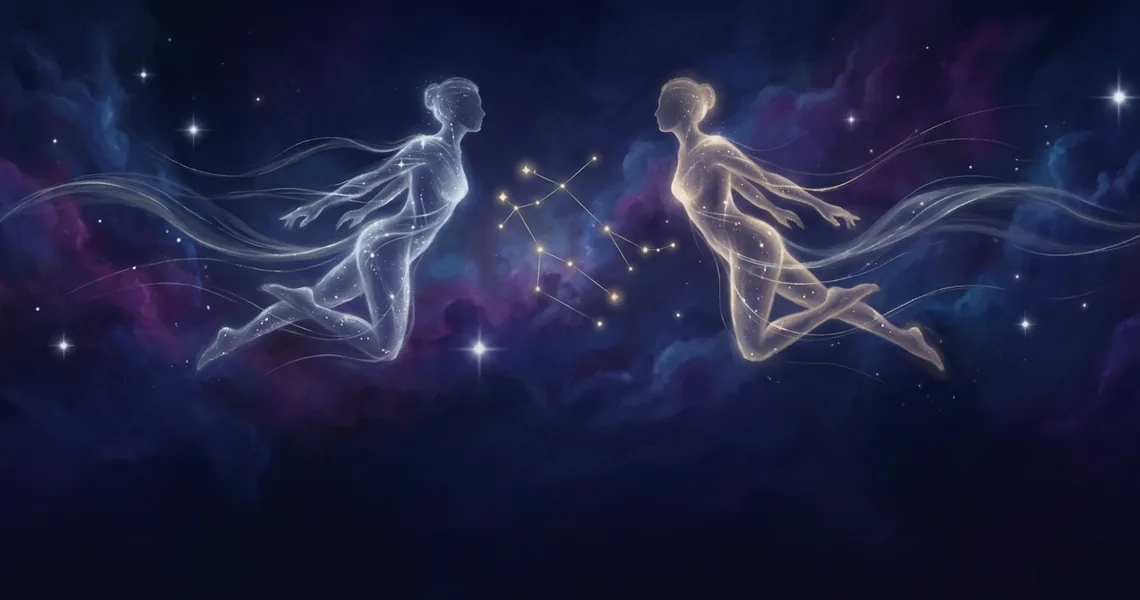
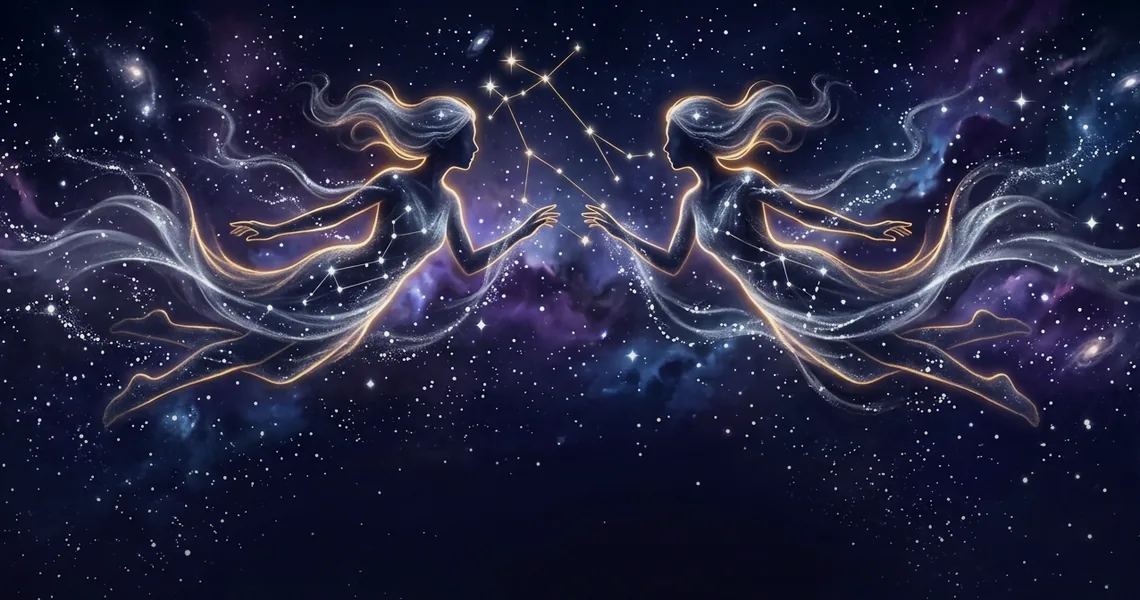
polish(astral-cosmos): objective art QA pass + central typography system (v1.13.2)
Art quality audit against the unified Scorpio-bar template, measured
objectively (gold rim-light pixel ratio, nebula violet, star count,
upper-half subject energy, text-zone darkness, edge energy):
- gemini, virgo, aquarius, pisces had almost no golden rim light
  (0.0-0.2% vs the bar's 0.9%) -> regenerated with rim-light
  strengthened prompts; now 0.3-1.6% (in family).
- sagittarius text zone was too bright (32 vs ~12-14) -> deeper
  baked bottom scrim, now 18.
All 12 artworks now measurably speak the same visual language.

Typography system (brief phase 2.4): AstralTextStyles in app_theme -
10 canonical text roles (scene/titleLarge/title/titleSmall/body/
bodySmall/caption/label/badge/overlineEn) with the single Vazirmatn
family. Shared widgets wired: SectionHeader, LockedSection,
PremiumBadge, PremiumSectionTitle, My-Sign banner (fa/en names).

v1.13.2+28.

diff --git a/lib/core/theme/app_theme.dart b/lib/core/theme/app_theme.dart
@@ -67,6 +67,95 @@ abstract final class AstralTokens {
   static const Color borderSubtle = Color(0x1AC9D2E8); // silver @ 10%
 }
 
+/// سیستمِ تایپوگرافیِ مرکزی — ASTRAL COSMOS (فازِ ۲.۴ بریف).
+///
+/// همهٔ نقشهای متنیِ اپ اینجا تعریف میشوند؛ صفحهها بهجایِ
+/// نوشتنِ دستیِ fontSize/Weight، از همین توکنها استفاده میکنند تا
+/// سلسلهمراتبِ تایپوگرافی در کلِ برنامه یکی بماند.
+abstract final class AstralTextStyles {
+  static const String fontFamily = 'Vazirmatn';
+
+  /// تیترِ صحنهٔ هنری — نامِ برج رویِ بنرِ «برجِ من».
+  static TextStyle scene({Color? color}) => TextStyle(
+        fontSize: 30,
+        fontWeight: FontWeight.w800,
+        color: color,
+        fontFamily: fontFamily,
+      );
+
+  /// تیترِ صفحه — سلامِ کاربر، عنوانهای بزرگ.
+  static TextStyle titleLarge({Color? color}) => TextStyle(
+        fontSize: 22,
+        fontWeight: FontWeight.w800,
+        color: color,
+        fontFamily: fontFamily,
+      );
+
+  /// تیترِ بخشها — SectionHeader.
+  static TextStyle title({Color? color}) => TextStyle(
+        fontSize: 16,
+        fontWeight: FontWeight.w800,
+        color: color,
+        fontFamily: fontFamily,
+      );
+
+  /// تیترِ کارتها و بخشهای داخلی.
+  static TextStyle titleSmall({Color? color}) => TextStyle(
+        fontSize: 13.5,
+        fontWeight: FontWeight.w800,
+        color: color,
+        fontFamily: fontFamily,
+      );
+
+  /// متنِ توضیحیِ اصلی.
+  static TextStyle body({Color? color}) => TextStyle(
+        fontSize: 13.5,
+        height: 2.1,
+        color: color,
+        fontFamily: fontFamily,
+      );
+
+  /// متنِ توضیحیِ فشرده.
+  static TextStyle bodySmall({Color? color}) => TextStyle(
+        fontSize: 12.5,
+        height: 2.05,
+        color: color,
+        fontFamily: fontFamily,
+      );
+
+  /// کپشن و متنِ کمکی.
+  static TextStyle caption({Color? color}) => TextStyle(
+        fontSize: 11,
+        height: 1.8,
+        color: color,
+        fontFamily: fontFamily,
+      );
+
+  /// برچسبها — پیلها و نشانها.
+  static TextStyle label({Color? color}) => TextStyle(
+        fontSize: 12,
+        fontWeight: FontWeight.w600,
+        color: color,
+        fontFamily: fontFamily,
+      );
+
+  /// نشانِ خیلی کوچک (مثلِ بجِ پرمیوم).
+  static TextStyle badge({Color? color}) => TextStyle(
+        fontSize: 10,
+        fontWeight: FontWeight.w800,
+        color: color,
+        fontFamily: fontFamily,
+      );
+
+  /// زیرنویسِ لاتینِ برج (نامِ انگلیسی رویِ بنر).
+  static TextStyle overlineEn({Color? color}) => TextStyle(
+        fontSize: 11.5,
+        letterSpacing: 3,
+        color: color,
+        fontFamily: fontFamily,
+      );
+}
+
 class AppTheme {
   AppTheme._();
 

diff --git a/lib/screens/zodiac/zodiac_screen.dart b/lib/screens/zodiac/zodiac_screen.dart
@@ -364,11 +364,8 @@ class _SignHeaderBanner extends StatelessWidget {
                 const SizedBox(height: 30),
                 Text(
                   sign.nameFa,
-                  style: TextStyle(
-                    fontSize: 30,
-                    fontWeight: FontWeight.w800,
-                    color: Colors.white,
-                    fontFamily: 'Vazirmatn',
+                  style: AstralTextStyles.scene(color: Colors.white)
+                      .copyWith(
                     shadows: const [
                       Shadow(color: Colors.black45, blurRadius: 16),
                     ],
@@ -377,12 +374,8 @@ class _SignHeaderBanner extends StatelessWidget {
                 const SizedBox(height: 2),
                 Text(
                   sign.nameEn.toUpperCase(),
-                  style: TextStyle(
-                    fontSize: 11.5,
-                    letterSpacing: 3,
-                    color: Colors.white.withValues(alpha: 0.85),
-                    fontFamily: 'Vazirmatn',
-                  ),
+                  style: AstralTextStyles.overlineEn(
+                      color: Colors.white.withValues(alpha: 0.85)),
                 ),
                 const SizedBox(height: 14),
                 Wrap(

diff --git a/lib/widgets/common.dart b/lib/widgets/common.dart
@@ -55,12 +55,8 @@ class SectionHeader extends StatelessWidget {
               children: [
                 Text(
                   title,
-                  style: TextStyle(
-                    fontSize: 16,
-                    fontWeight: FontWeight.w800,
-                    color: theme.colorScheme.onSurface,
-                    fontFamily: 'Vazirmatn',
-                  ),
+                  style: AstralTextStyles.title(
+                      color: theme.colorScheme.onSurface),
                 ),
                 if (subtitle != null)
                   Padding(
@@ -380,12 +376,8 @@ class LockedSection extends StatelessWidget {
                     Flexible(
                       child: Text(
                         title,
-                        style: TextStyle(
-                          fontSize: 13.5,
-                          fontWeight: FontWeight.w800,
-                          color: theme.colorScheme.onSurface,
-                          fontFamily: 'Vazirmatn',
-                        ),
+                        style: AstralTextStyles.titleSmall(
+                            color: theme.colorScheme.onSurface),
                       ),
                     ),
                     const SizedBox(width: 8),

diff --git a/lib/widgets/premium_badge.dart b/lib/widgets/premium_badge.dart
@@ -38,12 +38,8 @@ class PremiumBadge extends StatelessWidget {
             const SizedBox(width: 4),
             Text(
               active ? 'پرمیومِ فعال' : 'پرمیوم',
-              style: TextStyle(
-                fontSize: 10,
-                fontWeight: FontWeight.w800,
-                color: AstralTokens.celestialGold,
-                fontFamily: 'Vazirmatn',
-              ),
+              style:
+                  AstralTextStyles.badge(color: AstralTokens.celestialGold),
             ),
           ],
         ),
@@ -71,12 +67,8 @@ class PremiumSectionTitle extends StatelessWidget {
         Expanded(
           child: Text(
             title,
-            style: TextStyle(
-              fontSize: 13.5,
-              fontWeight: FontWeight.w800,
-              color: theme.colorScheme.onSurface,
-              fontFamily: 'Vazirmatn',
-            ),
+            style:
+                AstralTextStyles.titleSmall(color: theme.colorScheme.onSurface),
           ),
         ),
         PremiumBadge(active: active),

diff --git a/lib/core/constants/app_info.dart b/lib/core/constants/app_info.dart
@@ -3,6 +3,6 @@ class AppInfo {
   AppInfo._();
 
   static const String appName = 'طالع بین';
-  static const String version = '1.13.1';
+  static const String version = '1.13.2';
   static const int buildNumber = 13;
 }
